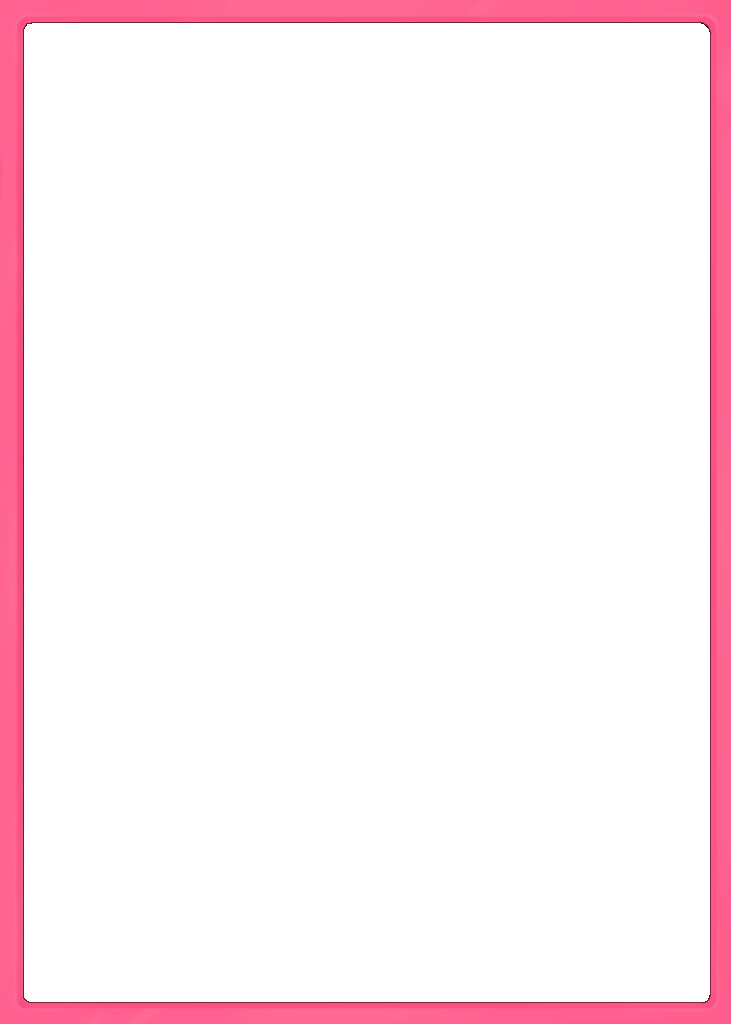
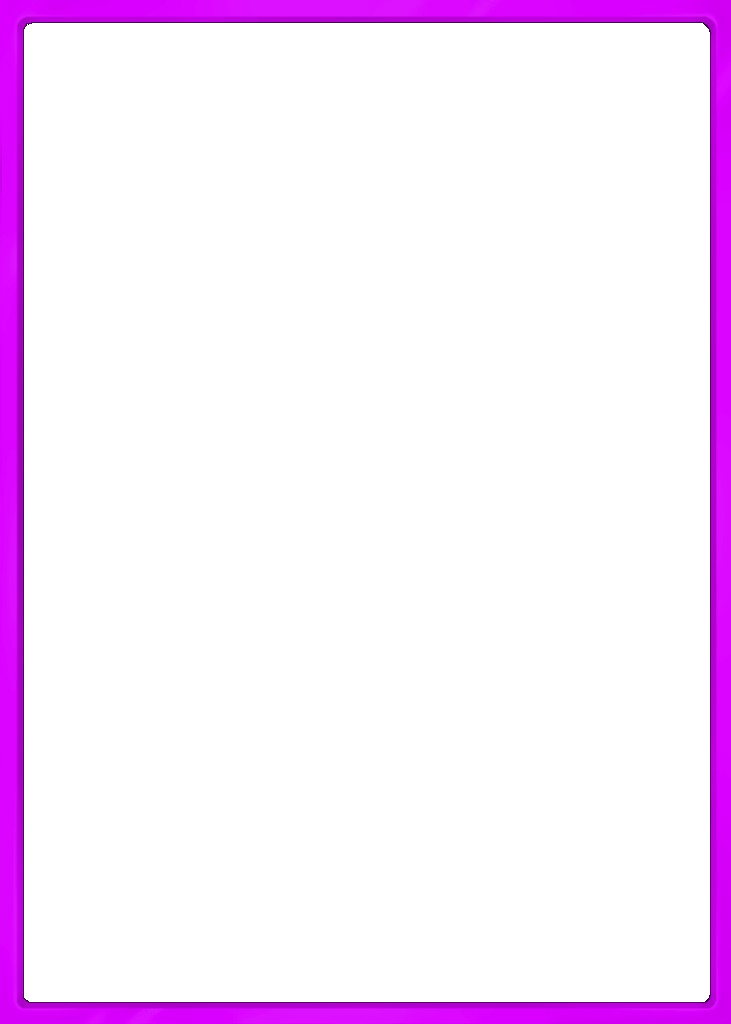
Replace Radiance IV frame art and bump frame cache to 3.2.
Process the updated Radiance4 PNG with a transparent center for overlay use.

Changed region(s): [[0.0, 0.0, 1.0, 1.0]]

diff --git a/docs/js/prestige-utils.js b/docs/js/prestige-utils.js
@@ -37,7 +37,7 @@ export const EVOLUTION_LABELS = Object.freeze({
 export const FUSION_LABELS = EVOLUTION_LABELS;
 
 /** Bump when Radiance PNG assets change (cache bust). */
-export const PRESTIGE_FRAME_ASSET_VERSION = '3.1';
+export const PRESTIGE_FRAME_ASSET_VERSION = '3.2';
 
 const LEGACY_TIER_MAP = Object.freeze({
   standard: 'stardust',
